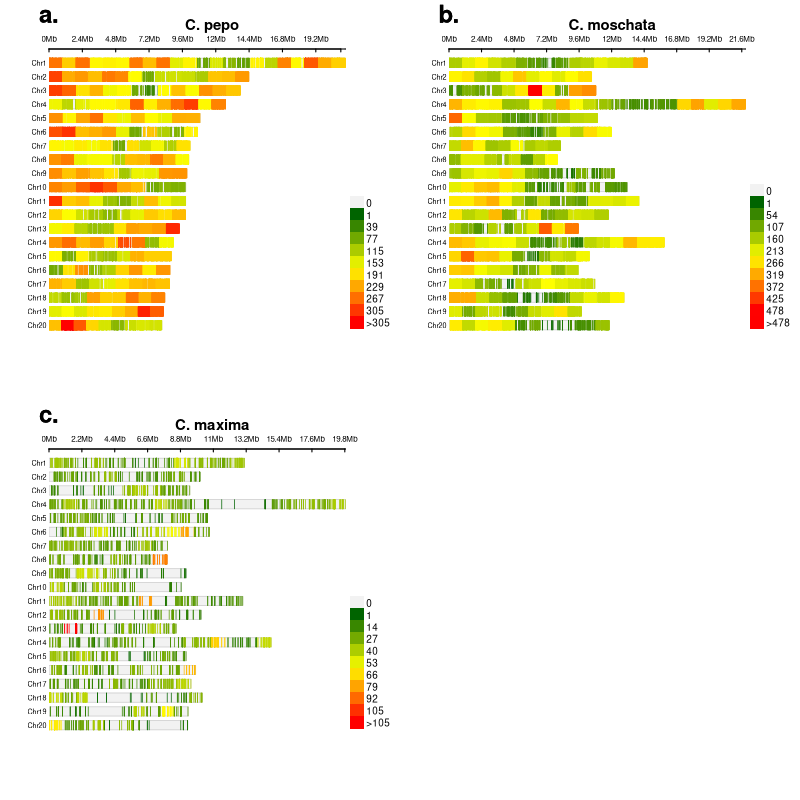
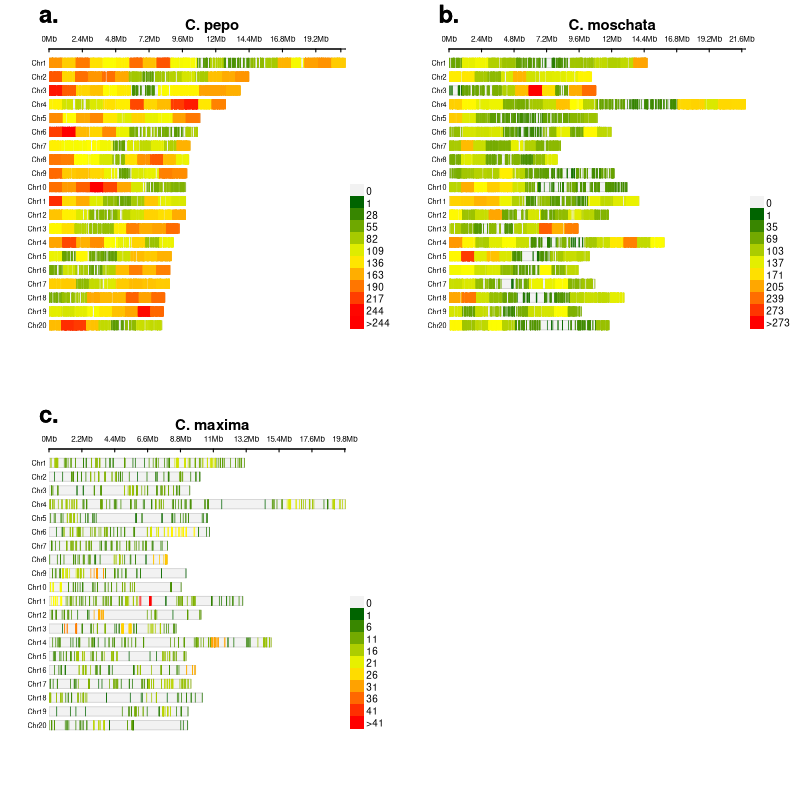
update

diff --git a/tables/01_tbl.md b/tables/01_tbl.md
@@ -1,25 +1,25 @@
 |           |C. pepo |         |C. moschata |         |C. maxima |         |
 |:----------|:-------|:--------|:-----------|:--------|:---------|:--------|
 |Chromosome |Raw     |Filtered |Raw         |Filtered |Raw       |Filtered |
-|0          |12498   |5656     |2708        |1235     |875       |337      |
-|1          |7497    |4155     |3890        |2632     |835       |373      |
-|2          |5153    |2921     |3661        |2537     |534       |232      |
-|3          |4875    |2668     |3472        |2402     |419       |203      |
-|4          |4598    |2652     |6880        |4466     |898       |436      |
-|5          |4045    |2254     |2716        |1808     |524       |216      |
-|6          |3871    |2100     |3262        |2188     |822       |391      |
-|7          |3129    |1761     |2668        |1784     |455       |205      |
-|8          |3875    |2189     |2348        |1576     |498       |244      |
-|9          |3766    |1995     |3106        |1903     |482       |217      |
-|10         |3585    |2052     |3550        |2226     |378       |179      |
-|11         |3227    |1727     |4336        |2967     |850       |349      |
-|12         |3089    |1614     |3711        |2293     |449       |238      |
-|13         |3434    |1879     |3106        |2013     |570       |286      |
-|14         |3543    |1973     |4753        |3201     |814       |350      |
-|15         |2640    |1427     |3564        |2358     |506       |223      |
-|16         |3088    |1589     |2933        |1990     |583       |296      |
-|17         |2994    |1657     |2885        |1892     |521       |239      |
-|18         |3053    |1723     |3341        |2107     |399       |189      |
-|19         |3381    |1860     |2638        |1717     |361       |188      |
-|20         |3096    |1692     |2497        |1629     |399       |209      |
-|Total      |88437   |47544    |72025       |46924    |12172     |5600     |
+|0          |12498   |2550     |2708        |546      |875       |110      |
+|1          |7497    |2831     |3890        |1468     |835       |141      |
+|2          |5153    |2049     |3661        |1538     |534       |71       |
+|3          |4875    |1943     |3472        |1499     |419       |72       |
+|4          |4598    |1982     |6880        |2553     |898       |165      |
+|5          |4045    |1628     |2716        |887      |524       |49       |
+|6          |3871    |1384     |3262        |1159     |822       |140      |
+|7          |3129    |1222     |2668        |969      |455       |64       |
+|8          |3875    |1583     |2348        |810      |498       |74       |
+|9          |3766    |1390     |3106        |995      |482       |94       |
+|10         |3585    |1488     |3550        |1327     |378       |67       |
+|11         |3227    |1216     |4336        |1830     |850       |160      |
+|12         |3089    |1163     |3711        |1330     |449       |68       |
+|13         |3434    |1350     |3106        |1280     |570       |111      |
+|14         |3543    |1291     |4753        |1929     |814       |127      |
+|15         |2640    |960      |3564        |1321     |506       |78       |
+|16         |3088    |1060     |2933        |1107     |583       |98       |
+|17         |2994    |1175     |2885        |1096     |521       |92       |
+|18         |3053    |1258     |3341        |1316     |399       |62       |
+|19         |3381    |1340     |2638        |990      |361       |47       |
+|20         |3096    |1155     |2497        |903      |399       |57       |
+|Total      |88437   |32018    |72025       |26853    |12172     |1947     |
